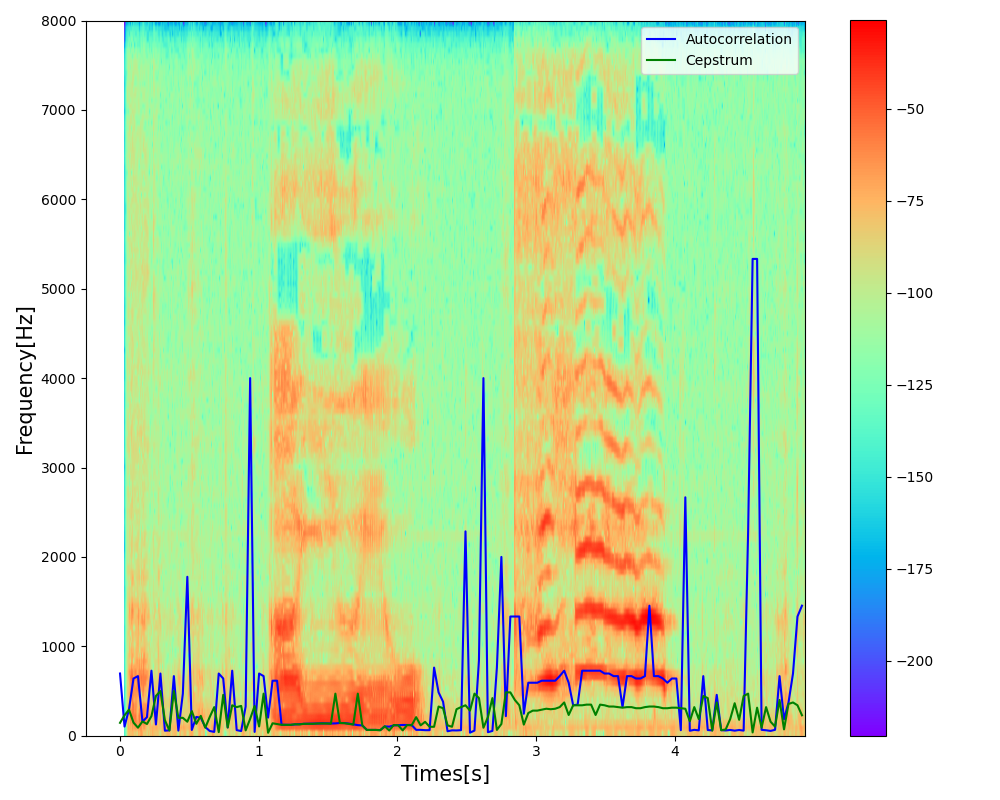
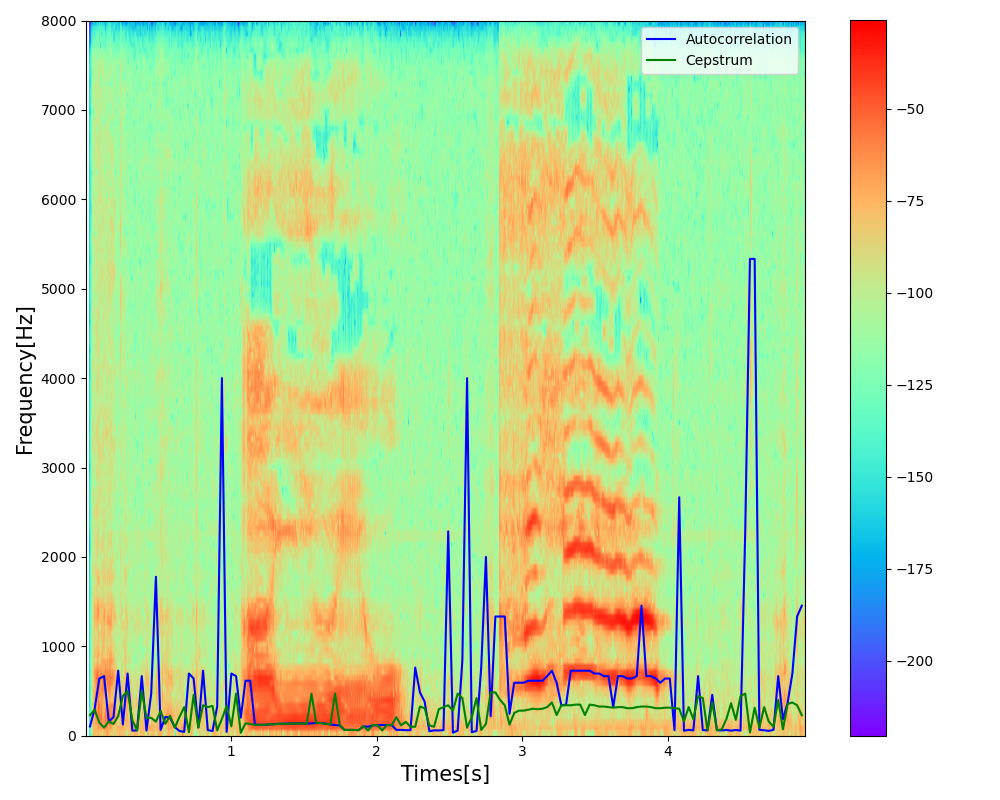
revise

Changed region(s): [[0.062, 0.0, 0.806, 0.9375]]

diff --git a/ex_4/k_nobata/ex_4.py b/ex_4/k_nobata/ex_4.py
@@ -23,11 +23,11 @@ def autocorrelation(data, order=None):
     """
     len_data = len(data)
     ac = np.zeros(len_data)
-    if order == None:
+    if order is None:
         order = len_data
     for l in range(order):
         for i in range(len_data - l):
-            ac[l] += data[i]*data[i+l]
+            ac[l] += data[i] * data[i+l]
         
     return ac
 
@@ -100,9 +100,9 @@ def cepstrum(data):
         cepstrum
     
     """
-    fft_data = np.fft.fft(data) #fft
-    power_spec = np.log10(np.abs(fft_data))
-    cep = np.real(np.fft.ifft(power_spec)) #ifft
+    power_spe = np.fft.fft(data) 
+    log_power_spec = np.log10(np.abs(power_spe))
+    cep = np.real(np.fft.ifft(log_power_spec)) 
     
     return cep
 
@@ -131,7 +131,6 @@ def f0_cep(data, sr, F_size, overlap, S_num, lif):
     """
     win = np.hamming(F_size)
     f0 = np.zeros(S_num)
-    len_data = len(data)
     for i in range(S_num):
         windata = data[i*overlap:i*overlap+F_size] * win
         cep = cepstrum(windata)
@@ -142,7 +141,7 @@ def f0_cep(data, sr, F_size, overlap, S_num, lif):
     return f0
 
 #基本周波数とスペクトログラムのプロット
-def f_plot(f0_a, f0_c, data, Ts, sr):
+def f_plot(f0_a, f0_c, data, Ts, sr, lif):
     """
     parameters
     --
@@ -159,16 +158,18 @@ def f_plot(f0_a, f0_c, data, Ts, sr):
     """
     plt.figure(figsize=(10,8))
     plt.specgram(data, Fs=sr, cmap="rainbow", scale_by_freq="True")
-    xa_axis = np.arange(0, Ts, Ts/len(f0_a))
-    xc_axis = np.arange(0, Ts, Ts/len(f0_c))
-    plt.plot(xa_axis, f0_a, label="Autocorrelation", color="blue")
-    plt.plot(xc_axis, f0_c, label="Cepstrum", color="green")
+    xa_0 = Ts/len(f0_a)
+    xc_0 = Ts/len(f0_c)
+    xa_axis = np.arange(xa_0, Ts, xa_0)
+    xc_axis = np.arange(xc_0, Ts, xc_0)
+    plt.plot(xa_axis, f0_a[1:], label="Autocorrelation", color="blue")
+    plt.plot(xc_axis, f0_c[1:], label="Cepstrum", color="green")
     plt.xlabel("Times[s]", fontsize=15)
     plt.ylabel("Frequency[Hz]", fontsize=15)
     plt.legend()
     plt.colorbar()
     plt.tight_layout()
-    #plt.savefig("spectrogram"+str(lif)+".png")
+    plt.savefig("spectrogram"+str(lif)+".png")
     plt.show()
     plt.close()
 
@@ -281,7 +282,7 @@ def lpc_m(data, order, F_size):
     return lpc_env
 
 #スペクトル包絡描画
-def spe(log, cep, lpc, F_size, sr):
+def spe(log, cep, lpc, F_size, sr, lif, deg):
     """
     parameters
     ---
@@ -306,7 +307,7 @@ def spe(log, cep, lpc, F_size, sr):
     plt.ylabel("Log amplitude spectrum[dB]", fontsize=15)
     plt.legend()
     plt.tight_layout()
-    #plt.savefig("spectrum"+str(lif)+"_"+str(deg)+".png")
+    plt.savefig("spectrum"+str(lif)+"_"+str(deg)+".png")
     plt.show()
     plt.close()
 
@@ -328,7 +329,7 @@ def main(args):
     #基本周波数計算&プロット
     f0_c = f0_cep(data, sr, F_size, overlap, S_num, lif)
     f0_a = f0_ac(data, sr, F_size, overlap, S_num)
-    f_plot(f0_a, f0_c, data, Ts, sr)
+    f_plot(f0_a, f0_c, data, Ts, sr, lif)
     
     #スペクトル包絡用
     p = 0.97
@@ -344,7 +345,7 @@ def main(args):
     cep = cep_m(windata, lif)
     lpc = lpc_m(windata, deg, F_size)
     
-    spe(log, cep, lpc, F_size, sr)
+    spe(log, cep, lpc, F_size, sr, lif, deg)
 
 if __name__ == "__main__":
     parser = argparse.ArgumentParser()
